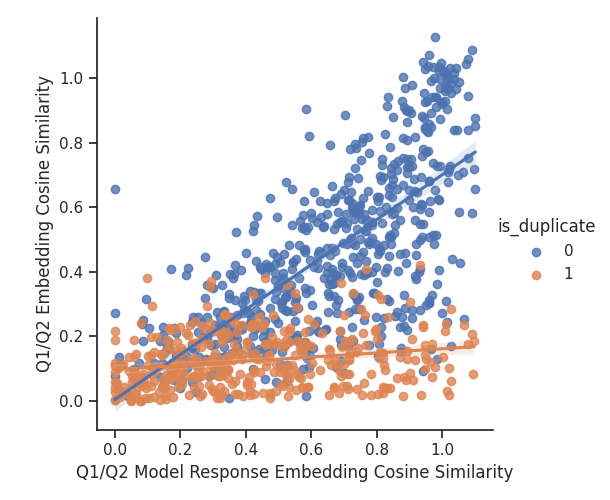
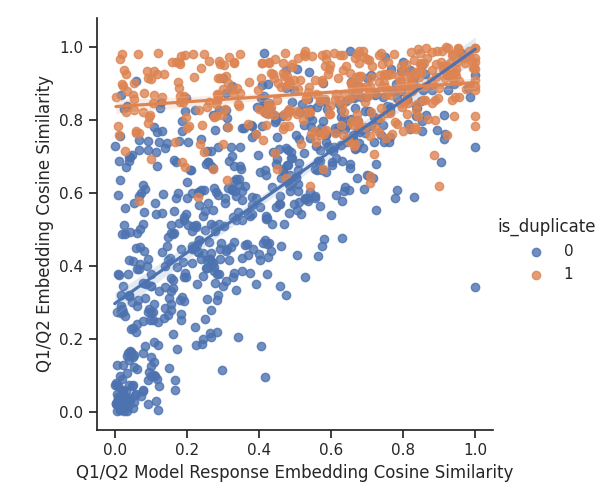
fixed error

diff --git a/src/util/db.py b/src/util/db.py
@@ -9,8 +9,12 @@ import logging
 
 # uses https://pandas.pydata.org/docs/reference/api/pandas.DataFrame.to_sql.html
 # After run 
-# -- UPDATE documents SET  model_embedding_cos = model_embedding1 <=> model_embedding2;
-# -- UPDATE documents SET  question_embedding_cos = embedding1 <=> embedding2;
+
+# pgvector <=> is cosine distance, not cosine similarity
+# https://github.com/supabase/supabase/issues/12244
+
+# -- UPDATE documents SET  model_embedding_cos =  abs((model_embedding1 <=> model_embedding2) - 1);
+# -- UPDATE documents SET  question_embedding_cos = abs((question_embedding1 <=> question_embedding2) - 1);
 
 logging.basicConfig(level=logging.ERROR)
 #logging.basicConfig(level=logging.DEBUG)
@@ -24,8 +28,8 @@ class db:
         time_stamp = calendar.timegm(current_GMT)
 
         config = configparser.RawConfigParser()   
-        configFilePath = r'N:/projects/EMSE6900/src/configuration.txt'
-        #configFilePath = r'/nas/projects/EMSE6900/src/configuration.txt'
+        #configFilePath = r'N:/projects/EMSE6900/src/configuration.txt'
+        configFilePath = r'/nas/projects/EMSE6900/src/configuration.txt'
         config.read(configFilePath)
 
         #server  = 'basquiat'

diff --git a/src/openai_plot.py b/src/openai_plot.py
@@ -12,14 +12,14 @@ import seaborn as sns
 sns.set(style='ticks')
 
 config = configparser.RawConfigParser()   
-#configFilePath = r'/nas/projects/EMSE6900/src/configuration.txt'
-configFilePath = r'N:/projects/EMSE6900/src/configuration.txt'
+configFilePath = r'/nas/projects/EMSE6900/src/configuration.txt'
+#configFilePath = r'N:/projects/EMSE6900/src/configuration.txt'
 config.read(configFilePath)
 
 logging.basicConfig(filename='myapp.log', level=logging.DEBUG)
 
 mydb = database.db('basquiat')
-df = mydb.query(experiment_id='1693075667')
+df = mydb.query(experiment_id='1693162463')
 
 print(df)
 
